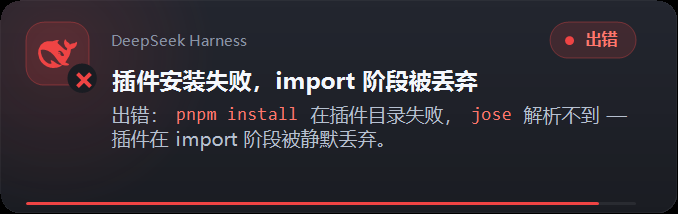
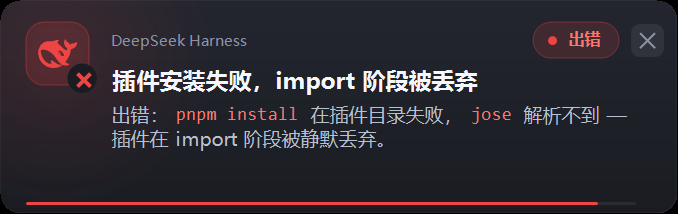
feat(card): 右上角 × 关闭盒（悬停/按下反馈）+ ask 卡片不再重复弹（1.8.4 / 1.8.5）
1.8.4 — 关闭盒
- notify.js：在右上角预留位置画一个安静的 ×，带三态：常态（淡底 + 品牌色描边）、
  悬停（底色变亮 + 描边转强调色 + 光标变手型）、按下（实心强调色 + 深色描边）。
  命中测试统一走 XHit() 函数，绘制与可点区域共用 $xL/$xT/$xS 三个变量，不会漂移。
- 点击被拆开：× 上只安静关闭（不跳转、不唤起 DSH）；卡片其他位置仍是
  「跳转 + 唤起 + 关闭」。用 Control::MousePosition + PointToClient 做命中测试——
  WinForms 的 Click 事件带的是空 EventArgs（没有 $.Location），用 MouseEventArgs
  的写法会静默读到空点、永远点不中 ×。
- 状态胶囊左边界改为贴着 × 让位，X 在角落不被胶囊压住，胶囊仍与文字列对齐。
- MouseMove / MouseLeave / MouseDown / MouseUp 直接 Invalidate() 重绘，
  所以在 timeout=0 的常驻卡片上也有反馈（那种卡片没有 tickr 定时器）。
- docs/screenshots/*.png 与 README 同步更新。

1.8.5 — ask 卡片不再重复弹
- 黄色（待你决定）卡片不再按 remindEveryMs 重复提醒：第一张本来就一直留在角落
  等人回应，第二张橙色卡片只会盖住它、不带来新信息（这是「弹第二次」的抱怨来源）。
- index.js：DEFAULTS 新增 remindOnAsk: false；trackPending() 在 tone==='ask' 且
  remindOnAsk!==true 时直接返回，不再挂提醒定时器。设 true 可恢复旧节奏。
- cordis.patch.yml / README 同步补 remindOnAsk 配置项与说明。
- test/run.mjs 补对应场景，369/369 scenarios passed。

版本 1.8.3 → 1.8.5

Changed region(s): [[0.7743, 0.0841, 0.9912, 0.2804]]

diff --git a/notify.js b/notify.js
@@ -908,6 +908,20 @@ export function buildScript(cfg, title, body, tone = 'ok') {
     lines.push('$brandH=[int][Math]::Ceiling($sf.GetHeight($gfx))')
     lines.push('$chipH=[int](24*$k)')
     lines.push('$eyebrowH=[Math]::Max($brandH,$chipH)')
+    // Close box at the extreme top-right. All hit-test and paint code share
+    // these three vars so the drawn X and the clickable region cannot drift.
+    lines.push('$xS=[int](22*$k)')
+    lines.push('$xM=[int](9*$k)')
+    lines.push('$xL=$w-$xM-$xS')
+    lines.push('$xT=$padTop+[int](($eyebrowH-$xS)/2)')
+    // Three visual states for the close box: idle, hover (pointer over it) and
+    // pressed (left button down on it). Paint reads these; the MouseMove /
+    // MouseDown / MouseUp handlers below maintain them. Keeping the hit test in
+    // one PowerShell function means the painted box and the interactive region
+    // can never drift apart.
+    lines.push('$script:xHover=$false; $script:xDown=$false')
+    lines.push('function XHit([int]$px,[int]$py){ return ($px -ge $xL -and $px -le ($xL+$xS) -and $py -ge $xT -and $py -le ($xT+$xS)) }')
+    lines.push('function XPoint(){ $p=$f.PointToClient([System.Windows.Forms.Control]::MousePosition); return @($p.X,$p.Y) }')
     lines.push('$headY=$padTop+$eyebrowH+[int](5*$k)')
     lines.push('$bodyY=$headY+$headH+[int](5*$k)')
     // TWO different strings live on the top row and the headline row, and they
@@ -1119,11 +1133,11 @@ export function buildScript(cfg, title, body, tone = 'ok') {
     //
     // which is `dot(6) + 6 + text + 10` from the left edge, i.e. the text starts
     // at 22 and the chip is `tw + 32` wide. The right edge stays pinned to
-    // $w-$padR, so it remains flush with the text column and the countdown
-    // hairline.
+    // close box, leaving the X clear at the corner while the chip stays
+    // aligned with the text column and the countdown hairline.
     lines.push('  $tw=$gr.MeasureString($script:statusText,$cf).Width')
     lines.push('  $cw=$tw+[int](32*$k)')
-    lines.push('  $cx=$w-$padR-$cw')
+    lines.push('  $cx=($xL-[int](8*$k))-$cw')
     lines.push('  $cy=$padTop+($eyebrowH-$chipH)/2')
     // eyebrow: the PRODUCT label, never the headline.
     //
@@ -1148,6 +1162,28 @@ export function buildScript(cfg, title, body, tone = 'ok') {
     lines.push('  $gr.FillEllipse($gb,($cx+[int](10*$k)),($cy+$chipH/2-$db/2),$db,$db)')
     lines.push('  $ctb=New-Object System.Drawing.SolidBrush($script:tintText)')
     lines.push('  $gr.DrawString($script:statusText,$cf,$ctb,($cx+[int](22*$k)),($cy+($chipH-$gr.MeasureString($script:statusText,$cf).Height)/2))')
+    // ---- close box: a quiet X, drawn in the reserved top-right corner ----
+    // It is deliberately muted: it must read as dismissible, not as a second
+    // call to action competing with the status chip.
+    lines.push('  $xp=RR $xL $xT $xS $xS ([int](6*$k))')
+    lines.push('  if($script:xDown){')
+    lines.push('    $xb=New-Object System.Drawing.SolidBrush($script:tintText)')
+    lines.push('    $gr.FillPath($xb,$xp); $xb.Dispose()')
+    lines.push('    $xc=[System.Drawing.Color]::FromArgb(24,28,34)')
+    lines.push('  } elseif($script:xHover){')
+    lines.push('    $xb=New-Object System.Drawing.SolidBrush([System.Drawing.Color]::FromArgb(48,255,255,255))')
+    lines.push('    $gr.FillPath($xb,$xp); $xb.Dispose()')
+    lines.push('    $xc=$script:tintText')
+    lines.push('  } else {')
+    lines.push('    $xb=New-Object System.Drawing.SolidBrush([System.Drawing.Color]::FromArgb(18,255,255,255))')
+    lines.push('    $gr.FillPath($xb,$xp); $xb.Dispose()')
+    lines.push('    $xc=$script:cBrand')
+    lines.push('  }')
+    lines.push('  $xpen=New-Object System.Drawing.Pen($xc,[Math]::Max(1,[int](1.4*$k)))')
+    lines.push('  $xi=[int](6*$k)')
+    lines.push('  $gr.DrawLine($xpen,($xL+$xi),($xT+$xi),($xL+$xS-$xi),($xT+$xS-$xi))')
+    lines.push('  $gr.DrawLine($xpen,($xL+$xS-$xi),($xT+$xi),($xL+$xi),($xT+$xS-$xi))')
+    lines.push('  $xpen.Dispose()')
     // ---- headline: the conversation's name, one line, ellipsised ----
     //
     // Drew unbounded before, which meant a long title simply ran past the card's
@@ -1413,7 +1449,41 @@ export function buildScript(cfg, title, body, tone = 'ok') {
     // One handler on the form is enough now that the whole card is painted: the
     // old per-Label handlers existed only because Labels swallow mouse events
     // from their parent, and there are no child controls left to swallow them.
-    lines.push('$f.Add_Click({ Send-Jump; FocusDsh; $f.Close() })')
+    // The click is split: the X closes quietly (no jump, no DSH focus),
+    // everywhere else keeps the old jump-then-focus-then-close path. Using
+    // Control::MousePosition + PointToClient matters: WinForms' Click event
+    // carries plain EventArgs (no $.Location), so a MouseEventArgs-style
+    // hit test would silently read an empty point and never hit the X.
+    // Mouse feedback for the close box: the pointer turns into a hand over it,
+    // the box brightens and its strokes take the accent colour (hover), and a
+    // left press inverts it to a solid accent chip with dark strokes (pressed).
+    // These handlers repaint directly with $f.Invalidate() so they also work on
+    // a parked card (timeout=0), which has no tickr timer. MouseUp performs the
+    // quiet close; the old click path (jump + focus) stays for the card body.
+    lines.push('$f.Add_MouseMove({')
+    lines.push('  $mp=XPoint; $over=XHit $mp[0] $mp[1]')
+    lines.push('  $f.Cursor=if($over){[System.Windows.Forms.Cursors]::Hand}else{[System.Windows.Forms.Cursors]::Default}')
+    lines.push('  if($over -ne $script:xHover){ $script:xHover=$over; $f.Invalidate() }')
+    lines.push('})')
+    lines.push('$f.Add_MouseLeave({ if($script:xHover -or $script:xDown){ $script:xHover=$false; $script:xDown=$false; $f.Cursor=[System.Windows.Forms.Cursors]::Default; $f.Invalidate() } })')
+    lines.push('$f.Add_MouseDown({')
+    lines.push('  if($_.Button -ne [System.Windows.Forms.MouseButtons]::Left){ return }')
+    lines.push('  $mp=XPoint')
+    lines.push('  if(XHit $mp[0] $mp[1]){ $script:xDown=$true; $f.Cursor=[System.Windows.Forms.Cursors]::Hand; $f.Invalidate() }')
+    lines.push('})')
+    lines.push('$f.Add_MouseUp({')
+    lines.push('  if($_.Button -ne [System.Windows.Forms.MouseButtons]::Left){ return }')
+    lines.push('  if(-not $script:xDown){ return }')
+    lines.push('  $script:xDown=$false')
+    lines.push('  $mp=XPoint')
+    lines.push('  if(XHit $mp[0] $mp[1]){ $script:xHover=$false; $f.Close(); return }')
+    lines.push('  $f.Invalidate()')
+    lines.push('})')
+    lines.push('$f.Add_Click({')
+    lines.push('  $mp=XPoint')
+    lines.push('  if(XHit $mp[0] $mp[1]){ return }')
+    lines.push('  Send-Jump; FocusDsh; $f.Close()')
+    lines.push('})')
     lines.push('$gfx.Dispose()')
     // Re-assert the band on a timer, and walk past invisible windows.
     //

diff --git a/index.js b/index.js
@@ -128,6 +128,10 @@ const DEFAULTS = {
   minIntervalMs: 4_000,
   remindEveryMs: 120_000,
   maxReminders: 3,
+  // Yellow (ask) cards stay on screen until the human answers. Re-firing
+  // the same orange card was the "弹第二次" complaint, so nudge is off
+  // for ask by default; set true to restore the old behaviour.
+  remindOnAsk: false,
   soundFile: 'C:\\Windows\\Media\\notify.wav',
   // Fallback headline: used only when the conversation has no name yet (a
   // brand-new session before its first `session/title` event). The headline
@@ -1052,6 +1056,11 @@ export function apply(ctx, rawConfig) {
    */
   function trackPending(key, body, tone, sessionId) {
     cancelPending(key)
+    // An unanswered ASK card is already visible and waiting for a human.
+    // A second orange popup a few minutes later repeats the same request,
+    // covers the first card and was reported as unwanted ("不用弹第二次").
+    // Off by default; the old cadence is still available via remindOnAsk.
+    if (tone === 'ask' && cfg.remindOnAsk !== true) return
     let remaining = Math.max(0, Math.floor(cfg.maxReminders))
     if (remaining === 0 || !(cfg.remindEveryMs > 0)) return
     const state = { timers: [] }

diff --git a/README.md b/README.md
@@ -34,7 +34,9 @@ DeepSeek Harness 插件：agent 卡在等你决策时、以及任务结束时，
 
 标题的可用宽度是**到状态胶囊左边为止**，所以无论会话名多长，文字都不会压到右边的「已完成」。
 
-一个没人回答的问题是永远不恢复的任务。所以提问类卡片会按 `remindEveryMs` 重复提醒，最多 `maxReminders` 次。
+一个没人回答的问题是永远不恢复的任务。但黄色（待你决定）卡片**不会**再弹第二次——第一张会一直留在角落等你回应，
+重复的那张橙色卡片只会盖住它、不带来新信息。需要恢复旧行为时把 `remindOnAsk` 设为 `true`，此时才按 `remindEveryMs` / `maxReminders` 重复提醒。
+卡片右上角的 **×** 有悬停高亮（光标变手型、底色变亮）和按下反馈（变实心强调色），只关闭这张卡片、不会跳回 DSH 窗口；点卡片其他位置仍然是「跳转并唤起 DSH」。
 
 ## 安装
 
@@ -103,8 +105,9 @@ git clone https://github.com/liren2272-hue/dsh-attention-notifier.git
 | `includeSummary` | `true` | 结束卡片带上最后一条回复的摘要 |
 | `askGuidance` | `true` | 往系统提示词里注入「何时该问用户」的规则 |
 | `minIntervalMs` | `4000` | 同类通知的合并窗口（连问三次只响一次） |
-| `remindEveryMs` | `120000` | 无人回应时的重复提醒间隔 |
-| `maxReminders` | `3` | 最多重复提醒几次，然后停止 |
+| `remindOnAsk` | `false` | 黄色（提问/批准）卡片是否重复弹第二次；默认关闭，第一张会一直等你回应。设 `true` 恢复旧提醒 |
+| `remindEveryMs` | `120000` | `remindOnAsk: true` 时的重复提醒间隔 |
+| `maxReminders` | `3` | `remindOnAsk: true` 时最多重复提醒几次 |
 | `focusProcess` | `'DeepSeek Harness'` | 点击卡片时唤起哪个进程（按**进程名**匹配，不是窗口标题）。窗口自己隐藏时（关到托盘）`MainWindowHandle` 是 0，旧实现在这里直接什么也不做；现在按进程枚举它的所有顶层窗口来挑，隐藏的用程序自身的「二次启动」路径唤醒，唤醒回来的是可交互的页面，不是定格的最后一帧 |
 | `raiseLog` | `%TEMP%\dsh-attention\raise.log` | 唤起窗口时写了什么：挑中哪个窗口、有没有唤醒、有没有拿到前台。唤起失败没有任何现象（卡片照样关闭），这个文件是区分「没找到可唤起的窗口」和「窗口本来就在」的唯一依据；写成 `''` 关闭 |
 | `jump` | `true` | 点击卡片时把页面切到打断你的那个会话 |
